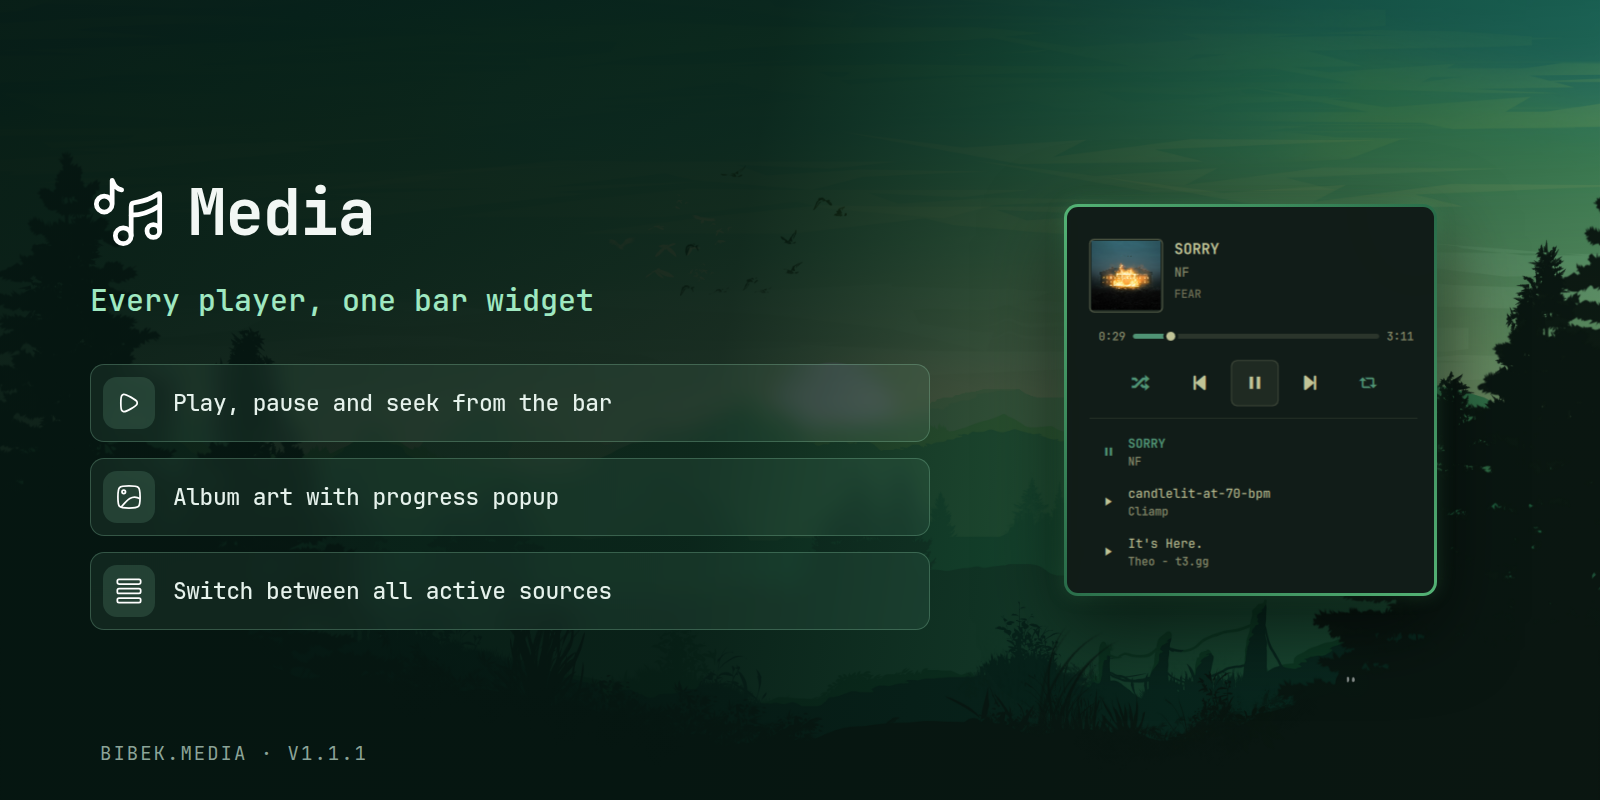
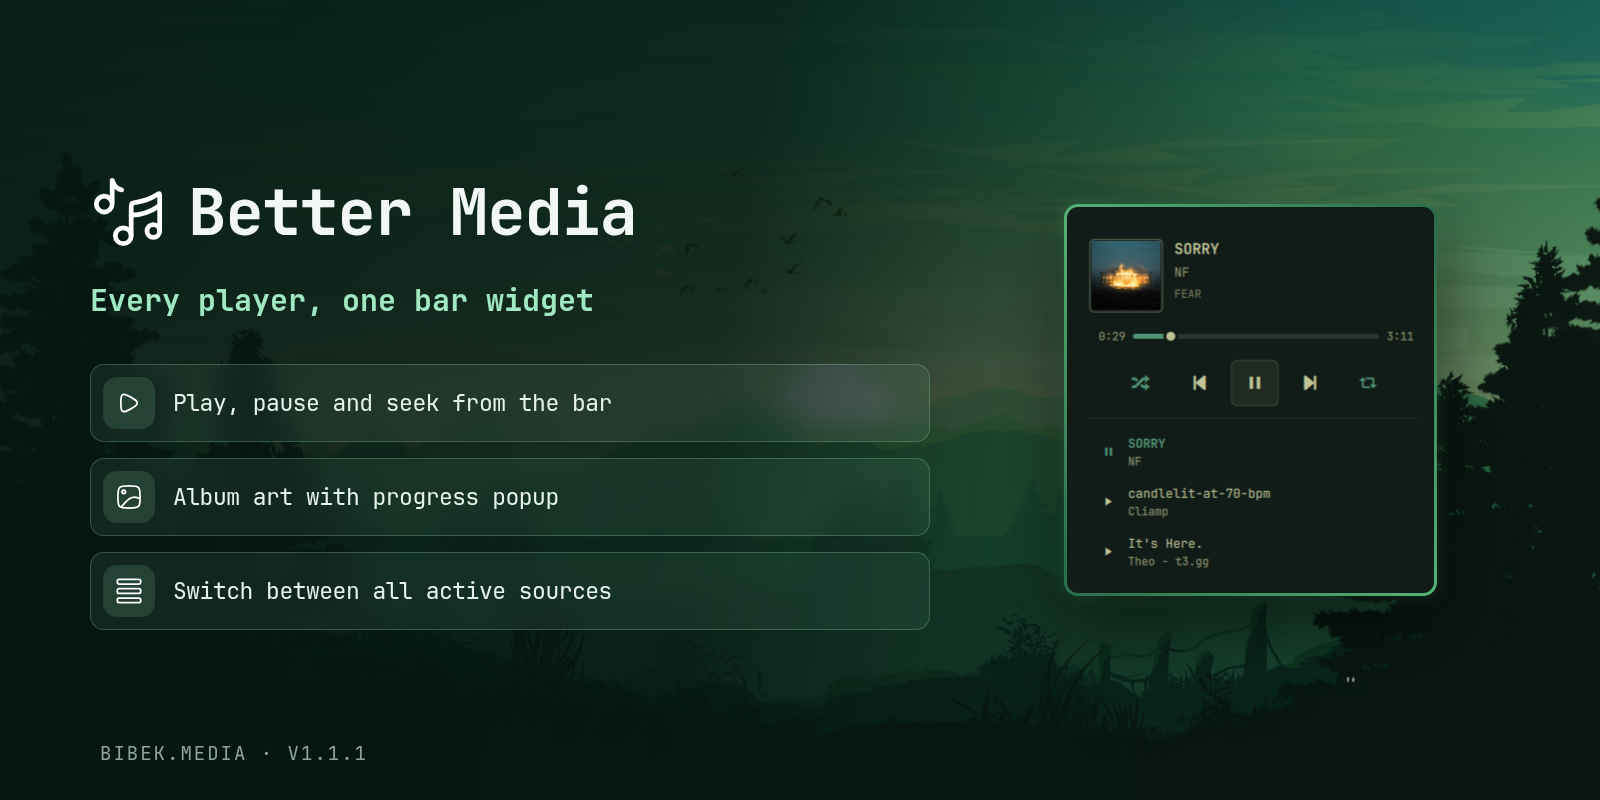
chore: 🔧 prep Better Media v1.1.1 for publish

diff --git a/media/README.md b/media/README.md
@@ -1,10 +1,10 @@
-# Omarchy Shell Plugin for Media
+# Better Media
 
 An MPRIS now-playing widget for the Omarchy bar, cloned from the built-in `omarchy.media`, plus support for the [cliamp](https://github.com/bjarneo/cliamp) headless daemon.
 
 Shows the playing track with a play/pause glyph in the bar. Right-clicking opens a popup with album art, a seekable progress bar, transport controls, and a list of active media sources.
 
-![Media preview](preview.png)
+![Better Media preview](preview.png)
 
 ## Features
 
@@ -36,7 +36,7 @@ New in this clone:
 This is a personal clone of the built-in `omarchy.media`; on this machine it lives in the shell plugin monorepo and is installed under the id `bibek.media`. To install from the standalone repo on a fresh system:
 
 ```bash
-omarchy plugin add https://github.com/BibekBhusal0/omarchy-media.git --enable
+omarchy plugin add https://github.com/BibekBhusal0/omarchy-better-media.git --enable
 ```
 
 ## Usage
@@ -99,6 +99,8 @@ This plugin is licensed under the [MIT License](../LICENSE).
 Here are my other Omarchy plugins:
 
 - [Focusd](https://github.com/BibekBhusal0/omarchy-focusd) - pomodoro timer with streak, history and daily goal
+- [Better Lock](https://github.com/BibekBhusal0/omarchy-better-lock) - lock screen with date/time, media and power controls
+- [Better Menu](https://github.com/BibekBhusal0/omarchy-better-menu) - fuzzy menu with app grid, calculator and web search
 - [Obsidian Search](https://github.com/BibekBhusal0/omarchy-obsidian-search) - fuzzy-search your Obsidian vault
 - [Readest](https://github.com/BibekBhusal0/omarchy-readest) - fuzzy-search your Readest library
 - [yt-dlp](https://github.com/BibekBhusal0/omarchy-ytdl) - video downloads with progress and history
